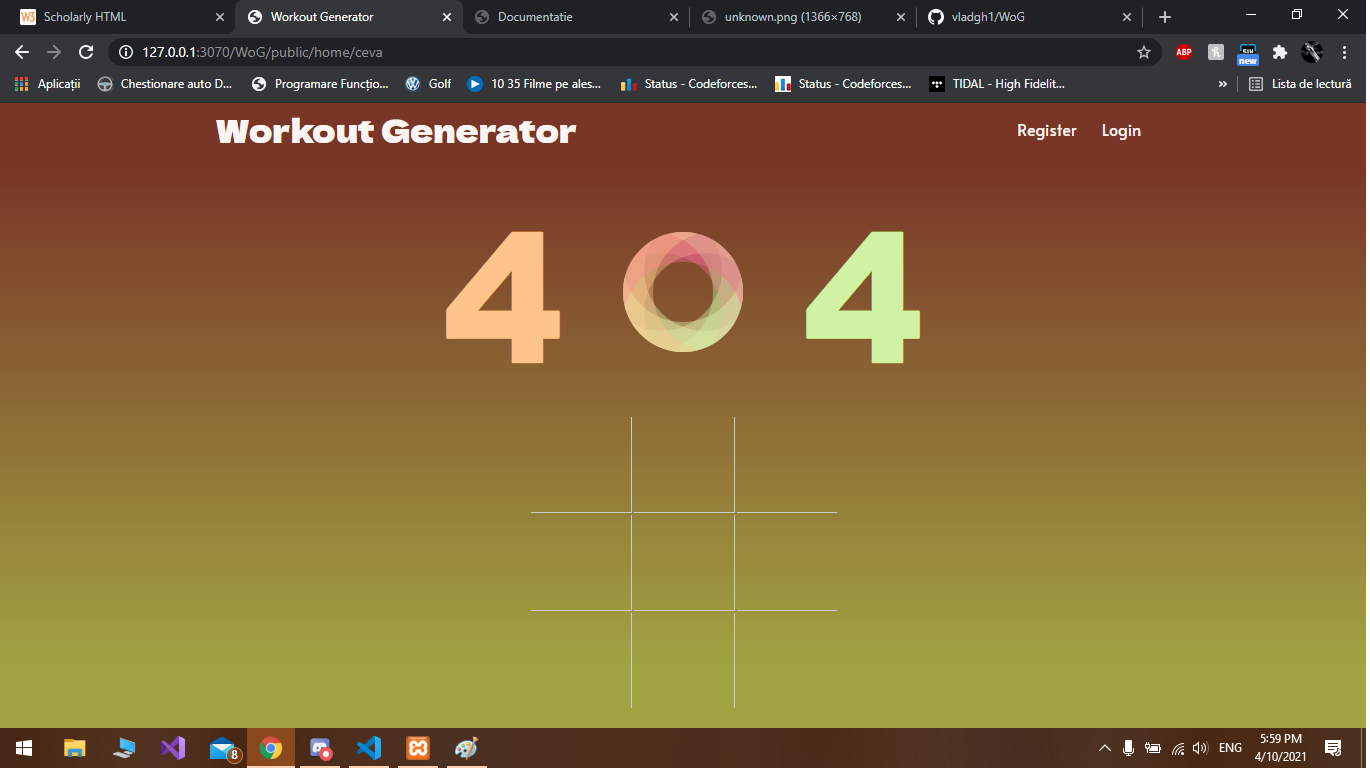
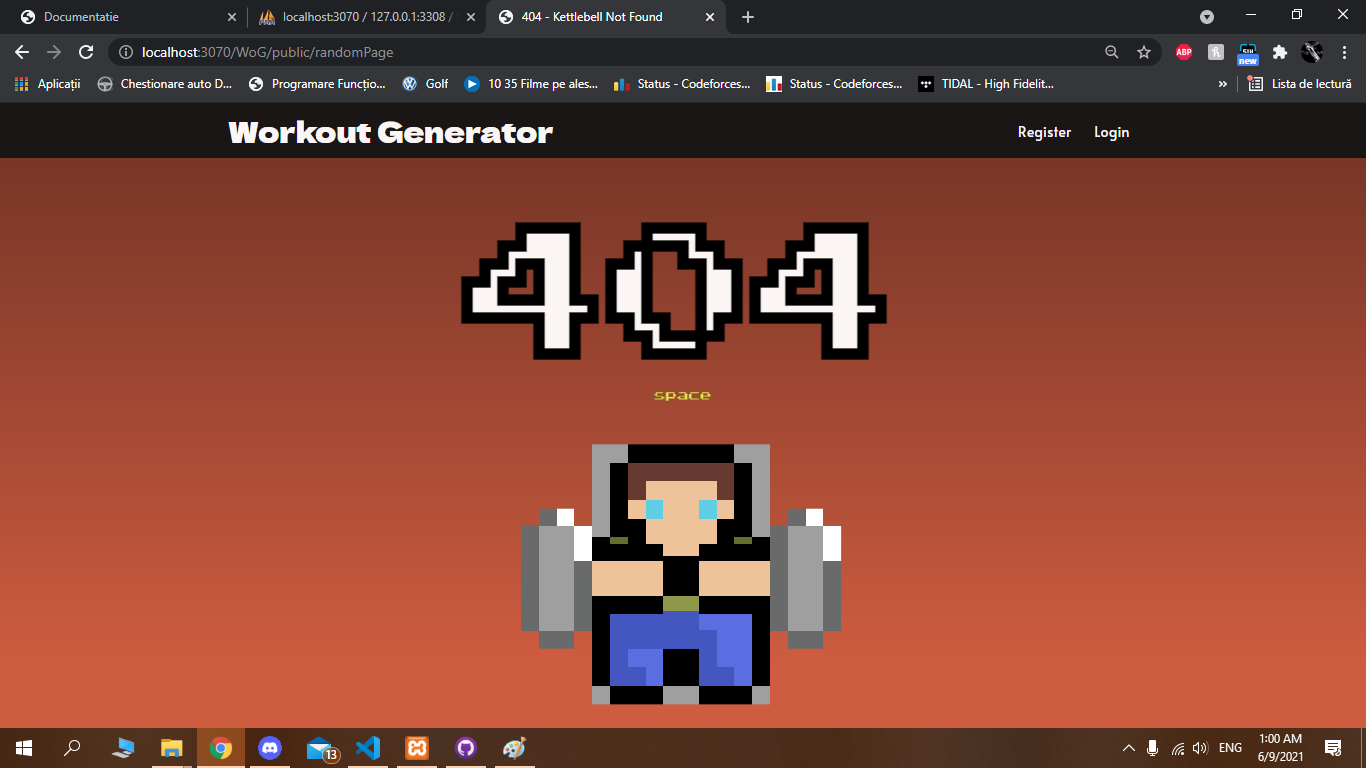
added documentation +photos

diff --git a/documentatie/index.html b/documentatie/index.html
@@ -12,7 +12,7 @@
 <body prefix="schema: http://schema.org">
   <header>
     <div class="banner">
-      <div class="status">Relizatori proiect: Gheorghita Vlad si Zbant Alex</div>
+      <div class="status">Relizatori proiect: Gheorghita Vlad, Pavel Boris si Zbant Alex</div>
     </div>
     <h1>Documentatie proiect Workout Generator(WOG)</h1>
   </header>
@@ -22,17 +22,19 @@
     <dl>
       <dt>Authors</dt>
       <dd>
-        Gheorghita Vlad si
+        Gheorghita Vlad,
+        Pavel Boris,
         Zbant Gabriel Alexandru
       </dd>
       <dt>Discussion Group</dt>
       <dd>
-        Gheorghita Vlad si
+        Gheorghita Vlad,
+        Pavel Boris,
         Zbant Gabriel Alexandru
       </dd>
       <dt>License</dt>
       <dd>
-        FII-puternic srl (G) & (Z) 2021 Pavaloi_NiceTehacher
+        FII-puternic srl (G) & (P) & (Z) 2021 Pavaloi_NiceTehacher
       </dd>
     </dl>
   </div>
@@ -50,22 +52,25 @@
     <h2>Site usage and flow of work</h2>
     <section id="WorkFlow">
       <h3>Pagina principala</h3>
-      <section typeof="sa:image">
-        <img src="photos/paginaPrincipala.png" alt="paginaPrincipala">
-      </section>
+      <img src="photos/paginaPrincipala.png" alt="paginaPrincipala">
 
       <p>
         In momentul in care utilizatorul intra pe site, acesta este intampinat de pagina
         principala ce afiseaza un meniu in partea de sus, un motto specific in partea stanga si
-        in partea dreapta un panou cu informatii despre site-ul nostru(data infiintarii, fonator+info, etc)
+        in partea dreapta un panou cu topul celor mai activi utilizatori.
+
+        Meniul prezinta in partea stanga un buton cu logo-ul nostru. prin apasarea lui,
+        utilizatorul este adus la pagina principala. In partea dreapta, se afla 2 butoane
+        ce duc utilizatorul spre formularele de logare si inregistrare de pe site.
       </p>
+
     </section>
     <section id="login">
       <h3>Pagina de logare</h3>
       <img src="photos/paginaLogin.png" alt="paginaLogin">
       <p>
-        In momentul in care utilizatorul acceseaza link-ul spre pagina de logare aflat in partea dreapta a
-        meniului, acesta este redirectionat spre pagina unde sunt necesare adresa de email si parola pentru logare.
+        In momentul in care utilizatorul apasa butonul "Login" aflat in partea dreapta a meniului, acesta este redirectionat 
+        spre pagina de logare, pentru completarea sunt necesare adresa de email si parola pentru logare.
       </p>
     </section>
     <section id="register">
@@ -73,8 +78,9 @@
       <img src="photos/paginaRegister.png" alt="paginaRegister">
       <p>
         In momentul in care utilizatorul acceseaza link-ul spre pagina de inregistrare aflat in partea dreapta a
-        meniului, acesta este redirectionat spre pagina unde sunt necesare adresa de email si
-        alte date cu caracter personal in vederea inregistrarii pe site.
+        meniului, acesta este redirectionat spre pagina unde sunt necesare adresa de email cat si
+        alte date cu caracter personal(inaltime, greutate, varsta, numele - ce se vor gasi pe pagina principala in
+        vecinatatea butonului de generare) in vederea inregistrarii pe site.
       </p>
     </section>
     <section id="LoggedIn">
@@ -84,10 +90,8 @@
       <img src="photos/paginaDupaLogare.png" alt="paginaDupaLogare">
       <p>
         Dupa ce utilizatorul s-a logat, acesta este intampinat de o noua fereastra in partea
-        dreapta ce ii permite sa vada ce date sunt in profilul sau actual dar si ce exercitii sunt
-        suerate pentru ziua aceea. Daca acesta este nemultumit de informatia sugerata, are la dispozitie
-        un buton ce il redirectioneaza spre un formular de generare a altei sugestii in
-        functie de preferintele sale.
+        dreapta ce ii permite sa vada ce date sunt in profilul sau actual dar si un buton de
+        "Generare" ce il trimite spre un formular de generare a unui program de antrenament.
       </p>
     </section>
     <section id="Error">
@@ -97,25 +101,52 @@
       <img src="photos/error.png" alt="error">
       <p>
         Daca utilizatorul intra pe o pagina ce nu se regaseste pe site, acesta este intampinat de pagina
-        de eroare 404. Dorim sa implementam pe pagina asceasta un mic joc de X si 0 pentru a reduce
-        plictiseala.
+        de eroare 404. Am implamantat pe aceasta pagina un mic joc de "Workout" simipar cu jocul clasic
+        cu dinozaurul de pe Chrome (aici scopul este de asemenea, sa apesi "spacebar" pentru a aduna puncte).
       </p>
     </section>
+
+    <section id="Generate">
+      <h2>
+        Pagina Generare
+      </h2>
+      <img src="photos/paginaGenerare.png" alt="paginaGenerare">
+      <p>
+        La pagina de generare, utilizatorul este intampiat de un formular unde trebuie inroduse niste preferinte 
+        in vederea generarii unui program de antrenament. Dupa ce este realizat acest pas, algoritmul genereaza un antrenament in mod determinist.
+      </p>
+    </section>
+
+    <section id="Profie">
+      <h2>
+        Pagina Profil
+      </h2>
+      <img src="photos/paginaProfile.png" alt="paginaProfile">
+      <p>
+        Pagina de profil ofera utilizatorului un tabel unde poate sa isi acceseze antrenamentele ce nu sunt terminate si sa 
+        vada ce antrenamente a avut in trecut si le-a terminat. de asemenea, cand un antrenament este terminat, utilizatorul 
+        primeste un punctaj ce se adauga la scor pentru clasament.  
+      </p>
+    </section>
+
+    <section id="Settings">
+      <h2>
+        Pagina Setari
+      </h2>
+      <img src="photos/paginaSettings.png" alt="paginaSettings">
+      <p>
+        Pagina de setari prezinta utilizatorului un formular unde ii sunt incarcate datele trimise in momentul inregistrarii.
+         Acest formular ofera posibiltatea de a modifica acele date intr-un mod simplu si rapid.
+      </p>
+    </section>
+
   </section>
-  <section id="challange">
+  <!-- <section id="challange">
     <h2 id="Provocare">
       Provocari depasite
     </h2>
-    <section id="just2">
-      <h2>
-        Lucrul in 2
-      </h2>
-      <p>
-        Din motive neprevazute, din 3 coechipieri, am ramas 2 lucru ce ne-a ingreunat semnificativ progresul si
-        nu am reusit sa implementam tot ce am fi vrut in timpul ramas.
-      </p>
-    </section>
-  </section>
+
+  </section> -->
   <section id="external">
     <h2 id="resurse">
       Biblioteci Folosite
@@ -125,7 +156,7 @@
         Nu am folosit inca
       </h2>
       <p>
-        Pana in momentul de fata nu am folosit biblioteci .
+        Pana in momentul de fata nu am folosit biblioteci.
       </p>
     </section>
   </section>
